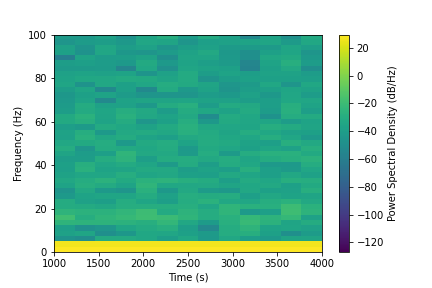
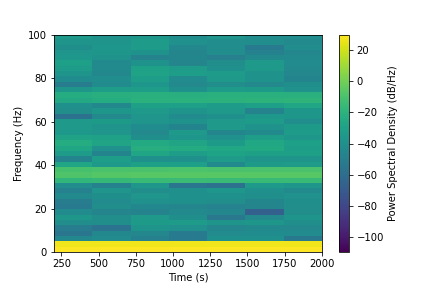
updated

diff --git a/simulation/setup.py b/simulation/setup.py
@@ -16,10 +16,10 @@ def setup():
     
     ## Recording and simulation parameters
     params = {
-        'rec_start'  :   1000.,                                                # start point for data recording
-        'rec_stop'   :   4000.,                                                # end points for data recording
+        'rec_start'  :    200.,                                                # start point for data recording
+        'rec_stop'   :   2000.,                                                # end points for data recording
         'record_to'  :'memory',
-        'sim_time'   :   4000.,                                                # Time the network is simulated in ms
+        'sim_time'   :   2000.,                                                # Time the network is simulated in ms
         'calc_lfp'   :   False,                                                # Flag to use LFP approximation procedure
         'verbose'    :    True,                                                # Flag for verbose function output
         'K_scale'    :      1.,                                                # Scaling factor for connections
@@ -31,67 +31,140 @@ def setup():
         'resolution' :     0.1,                                                # Resolution of the simulaton
         'transient'  :     200,                                                # Ignore the first x ms of the simulation
         'th_in'      :      0.,                                                # Thalamic input in Hz
-        'th_start'   :   2000.,
-        'th_stop'    :   2020.,
+        'th_start'   :    500.,
+        'th_stop'    :    510.,
         'num_neurons': np.array([400, 100, 400, 100]),
-        'cell_params'  : [ {
-                             'V_m'        :  -70.,
-                             'V_th'       :  -50.,
-                             'V_reset'    :  -76.,
-                             'C_m'        :  250.,
-                             't_ref'      :    3.,
-                             'tau_syn_ex' :     1,
-                             'tau_syn_in' :     1,
-                             'E_L'        : -65.0,
-                             'tau_m'      :  20.0,
-                         },
-                         {
-                             'V_m'        :  -70.,
-                             'V_th'       :  -49.,
-                             'V_reset'    :  -76.,
-                             'C_m'        :  250.,
-                             't_ref'      :    4.,
-                             'tau_syn_ex' :     1,
-                             'tau_syn_in' :     1,
-                             'E_L'        : -65.0,
-                             'tau_m'      :  20.0,
-                         },
-                         {
+        'cell_params'  : [{
                             'V_m'        :  -70.,
                             'V_th'       :  -50.,
                             'V_reset'    :  -70.,
                             'C_m'        :  250.,
-                            't_ref'      :    3.,
-                            'tau_syn_ex' :     1,
-                            'tau_syn_in' :     2,
+                            't_ref'      :    2.,
+                            'tau_syn_ex' :   0.95,
+                            'tau_syn_in' :   .25,
                             'E_L'        : -65.0,
-                            'tau_m'      :  30.0,
+                            'tau_m'      :  27.0,
                         },
                         {
                             'V_m'        :  -70.,
                             'V_th'       :  -49.,
                             'V_reset'    :  -70.,
                             'C_m'        :  250.,
-                            't_ref'      :    4.,
-                            'tau_syn_ex' :    1.,
-                            'tau_syn_in' :    1.,
+                            't_ref'      :    2.,
+                            'tau_syn_ex' :   0.9,
+                            'tau_syn_in' :    .25,
                             'E_L'        : -65.0,
-                            'tau_m'      :  25.0,
+                            'tau_m'      :  23.0,
+                        },
+                         {
+                            'V_m'        :  -70.,
+                            'V_th'       :  -50.,
+                            'V_reset'    :  -70.,
+                            'C_m'        :  250.,
+                            't_ref'      :    2.,
+                            'tau_syn_ex' :   1.3,
+                            'tau_syn_in' :   .35,
+                            'E_L'        : -65.0,
+                            'tau_m'      :  28.0,
+                        },
+                        {
+                            'V_m'        :  -70.,
+                            'V_th'       :  -49.,
+                            'V_reset'    :  -70.,
+                            'C_m'        :  250.,
+                            't_ref'      :    2.,
+                            'tau_syn_ex' :   1.2,
+                            'tau_syn_in' :   .5,
+                            'E_L'        : -65.0,
+                            'tau_m'      :  24.0,
                         }],
+        ## Increase in tau_syn_ex -> Increase in frequency
+        
         'pop_name'   : ['L1_E', 'L1_I',
-                        'L2_E' , 'L2_I']
+                        'L2_E' , 'L2_I'],
+        'connection_strength': 0.6
         }
+    ## AI Regime
+    # {
+    #                      'V_m'        :  -70.,
+    #                      'V_th'       :  -50.,
+    #                      'V_reset'    :  -76.,
+    #                      'C_m'        :  250.,
+    #                      't_ref'      :    3.,
+    #                      'tau_syn_ex' :     1,
+    #                      'tau_syn_in' :     1,
+    #                      'E_L'        : -65.0,
+    #                      'tau_m'      :  20.0,
+    #                  },
+    #                  {
+    #                      'V_m'        :  -70.,
+    #                      'V_th'       :  -49.,
+    #                      'V_reset'    :  -76.,
+    #                      'C_m'        :  250.,
+    #                      't_ref'      :    4.,
+    #                      'tau_syn_ex' :     1,
+    #                      'tau_syn_in' :     1,
+    #                      'E_L'        : -65.0,
+    #                      'tau_m'      :  20.0,
+    #                  },
+    ###########################################################################
+    ## Gamma/Beta Oscillations
+    # [{
+    #                     'V_m'        :  -70.,
+    #                     'V_th'       :  -50.,
+    #                     'V_reset'    :  -70.,
+    #                     'C_m'        :  250.,
+    #                     't_ref'      :    2.,
+    #                     'tau_syn_ex' :   0.95,
+    #                     'tau_syn_in' :   .25,
+    #                     'E_L'        : -65.0,
+    #                     'tau_m'      :  27.0,
+    #                 },
+    #                 {
+    #                     'V_m'        :  -70.,
+    #                     'V_th'       :  -49.,
+    #                     'V_reset'    :  -70.,
+    #                     'C_m'        :  250.,
+    #                     't_ref'      :    2.,
+    #                     'tau_syn_ex' :   0.9,
+    #                     'tau_syn_in' :    .25,
+    #                     'E_L'        : -65.0,
+    #                     'tau_m'      :  23.0,
+    #                 },
+    #                  {
+    #                     'V_m'        :  -70.,
+    #                     'V_th'       :  -50.,
+    #                     'V_reset'    :  -70.,
+    #                     'C_m'        :  250.,
+    #                     't_ref'      :    2.,
+    #                     'tau_syn_ex' :   1.3,
+    #                     'tau_syn_in' :   .25,
+    #                     'E_L'        : -65.0,
+    #                     'tau_m'      :  28.0,
+    #                 },
+    #                 {
+    #                     'V_m'        :  -70.,
+    #                     'V_th'       :  -49.,
+    #                     'V_reset'    :  -70.,
+    #                     'C_m'        :  250.,
+    #                     't_ref'      :    2.,
+    #                     'tau_syn_ex' :   1.3,
+    #                     'tau_syn_in' :   .5,
+    #                     'E_L'        : -65.0,
+    #                     'tau_m'      :  24.0,
+    #                 }]
     
     ################################################################
     ## Specify connectivity in and between layers and populations ##
     ################################################################
     
-    # Connectivity matrix                
+    # Connectivity matrix
+    k = params['connection_strength']               
     params['connectivity'] = np.array(
-            [[0.1, 0.25, 0.0 , 0.0],
-             [0.5 , 0.25, 0.0 , 0.0],
-             [0.0 , 0.0, 0.1, 0.3],
-             [0.0 , 0.0, 0.45 , 0.25]]
+            [[0.1 , 0.25, k    , k   ],
+             [0.5 , 0.25, k    , k   ],
+             [k   , k   , 0.1  , 0.3 ],
+             [k   , k   , 0.45 , 0.25]]
             )
     
     ################################

diff --git a/simulation/run.py b/simulation/run.py
@@ -3,12 +3,13 @@
 ######################
 import numpy as np
 import nest
-from functions import Network, raster, rate, get_irregularity, get_synchrony, get_firing_rate, create_spectrogram
+from functions import Network, raster, rate, get_irregularity, get_synchrony, get_firing_rate, create_spectrogram, create_spectral_density_plot
 import time
 import pickle
 import pandas as pd
 
 from setup import setup
+
 setup()
 
 ###############################################################################
@@ -159,6 +160,7 @@ if rank == 0:
         ## Plot spike data
         raster(spike_data[:2], vm_avg_1, params['rec_start'], params['rec_stop'], colors, network.get_nrec(), prefix="N1_", suffix=f"{str(int(params['th_in'])):0>4}")
         raster(spike_data[2:], vm_avg_2, params['rec_start'], params['rec_stop'], colors, network.get_nrec(), prefix="N2_", suffix=f"{str(int(params['th_in'])):0>4}")
+        raster(spike_data, vm_avg_2, params['rec_start'], params['rec_stop'], colors, network.get_nrec(), prefix="N2_", suffix=f"{str(int(params['th_in'])):0>4}")
 
         #######################################################################
         ## Display the average firing rate in Hz
@@ -176,16 +178,24 @@ if rank == 0:
         
         ## Sampling rate in Hz
         fs = 1000 / params['resolution']
-        num_timesteps = int((params['rec_start'] - params['rec_stop']) * (1000 / params['resolution']))
+        num_timesteps = int((params['rec_stop'] - params['rec_start']) * (1000 / params['resolution']))
         
         create_spectrogram(vm_avg_1, fs, params['rec_start'], params['rec_stop'], f_min, f_max)
         create_spectrogram(vm_avg_2, fs, params['rec_start'], params['rec_stop'], f_min, f_max)
+        
+        # create_spectral_density_plot(len(vm_avg_1), params['resolution']*1e-3, vm_avg_1)
+        # create_spectral_density_plot(len(vm_avg_1), params['resolution']*1e-3, vm_avg_2)
+        
+        create_spectral_density_plot(len(vm_avg_1), params['resolution']*1e-3, [vm_avg_1, vm_avg_2])
+
+        
+        
     
     ###########################################################################
     ## Calculate measures 
-    # irregularity = [get_irregularity(population) for population in spike_data]
-    # firing_rate  = [get_firing_rate(population, params['rec_start'], params['rec_stop']) for population in spike_data]
-    # synchrony    = [get_synchrony(population, params['rec_start'], params['rec_stop']) for population in spike_data]
+    irregularity = [get_irregularity(population) for population in spike_data]
+    firing_rate  = [get_firing_rate(population, params['rec_start'], params['rec_stop']) for population in spike_data]
+    synchrony    = [get_synchrony(population, params['rec_start'], params['rec_stop']) for population in spike_data]
     
     ###########################################################################
     ## Write results to file

diff --git a/simulation/functions.py b/simulation/functions.py
@@ -427,6 +427,33 @@ def create_spectrogram(data, fs, t_start, t_end, f_min, f_max):
     plt.show()
 
     return im.get_array()
+
+def create_spectral_density_plot(timesteps, resolution, data):
+        ## Compute the power spectral density (PSD)
+        frequencies = np.fft.fftfreq(timesteps, resolution)
+        
+        ## Compute the Fourier transform
+        plt.figure()
+        if type(data) == list:
+            for i in range(len(data)):
+                data_zero = data[i] - np.mean(data[i])
+                xf = np.fft.fft(data_zero)
+                psd = np.abs(xf)**2
+                plt.plot(frequencies, psd, label=f"Dataset {i+1}")
+        else:
+            data_zero = data - np.mean(data)
+            xf = np.fft.fft(data_zero) 
+            ## Compute the power spectral density
+            psd = np.abs(xf)**2  
+            ## Plot the spectral density
+            plt.plot(frequencies, psd)
+        
+        plt.xlabel('Frequency [Hz]')
+        plt.ylabel('Power Spectral Density')
+        plt.xlim(0, 80)
+        plt.title('Spectral Density Plot')
+        plt.grid(True)
+        plt.show()
   
 def rate(spikes, rec_start, rec_stop):
     """
